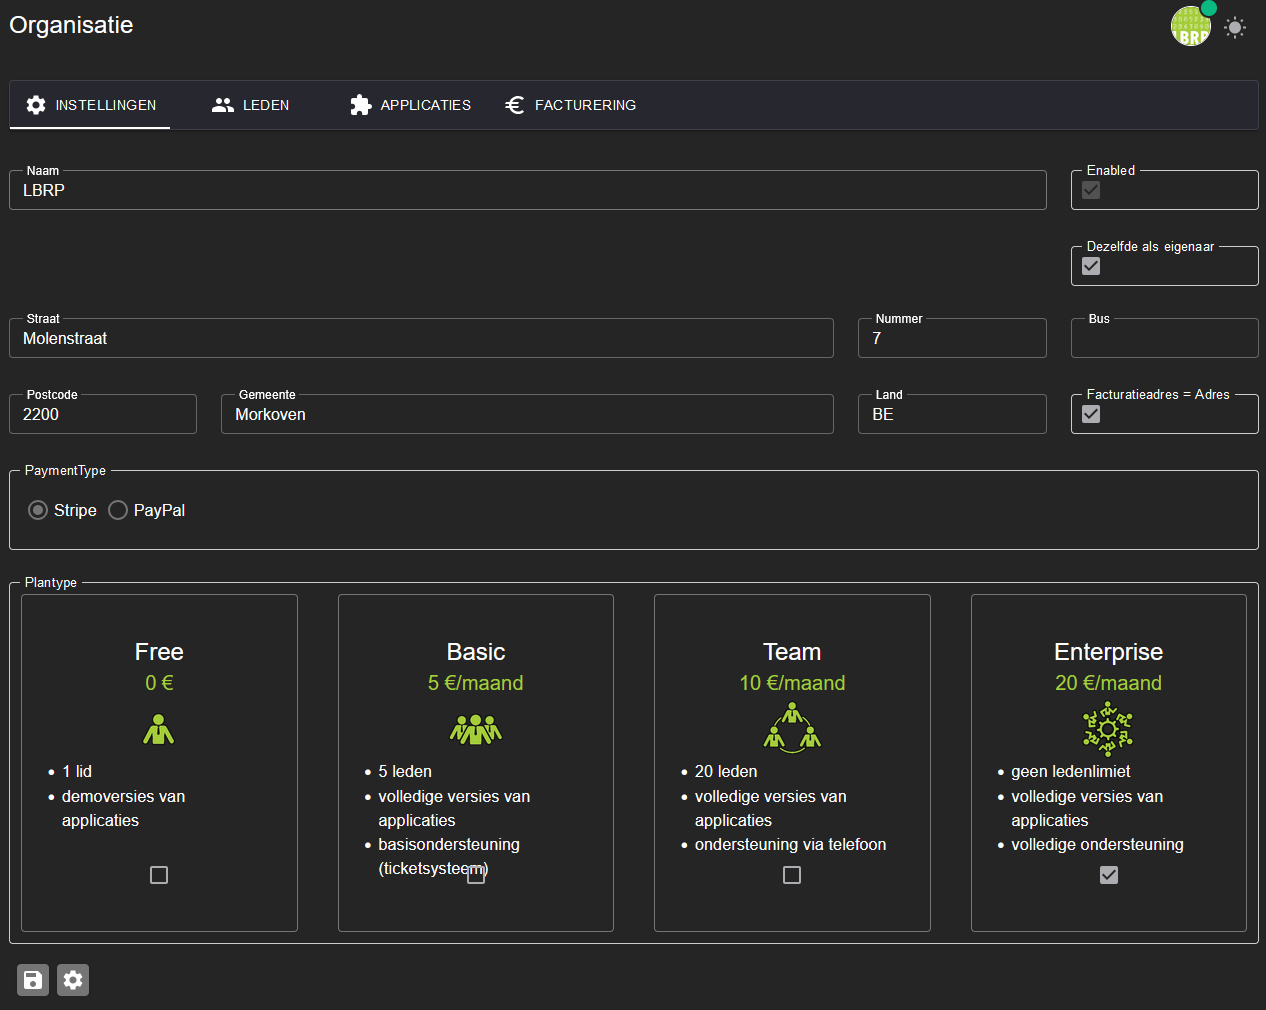
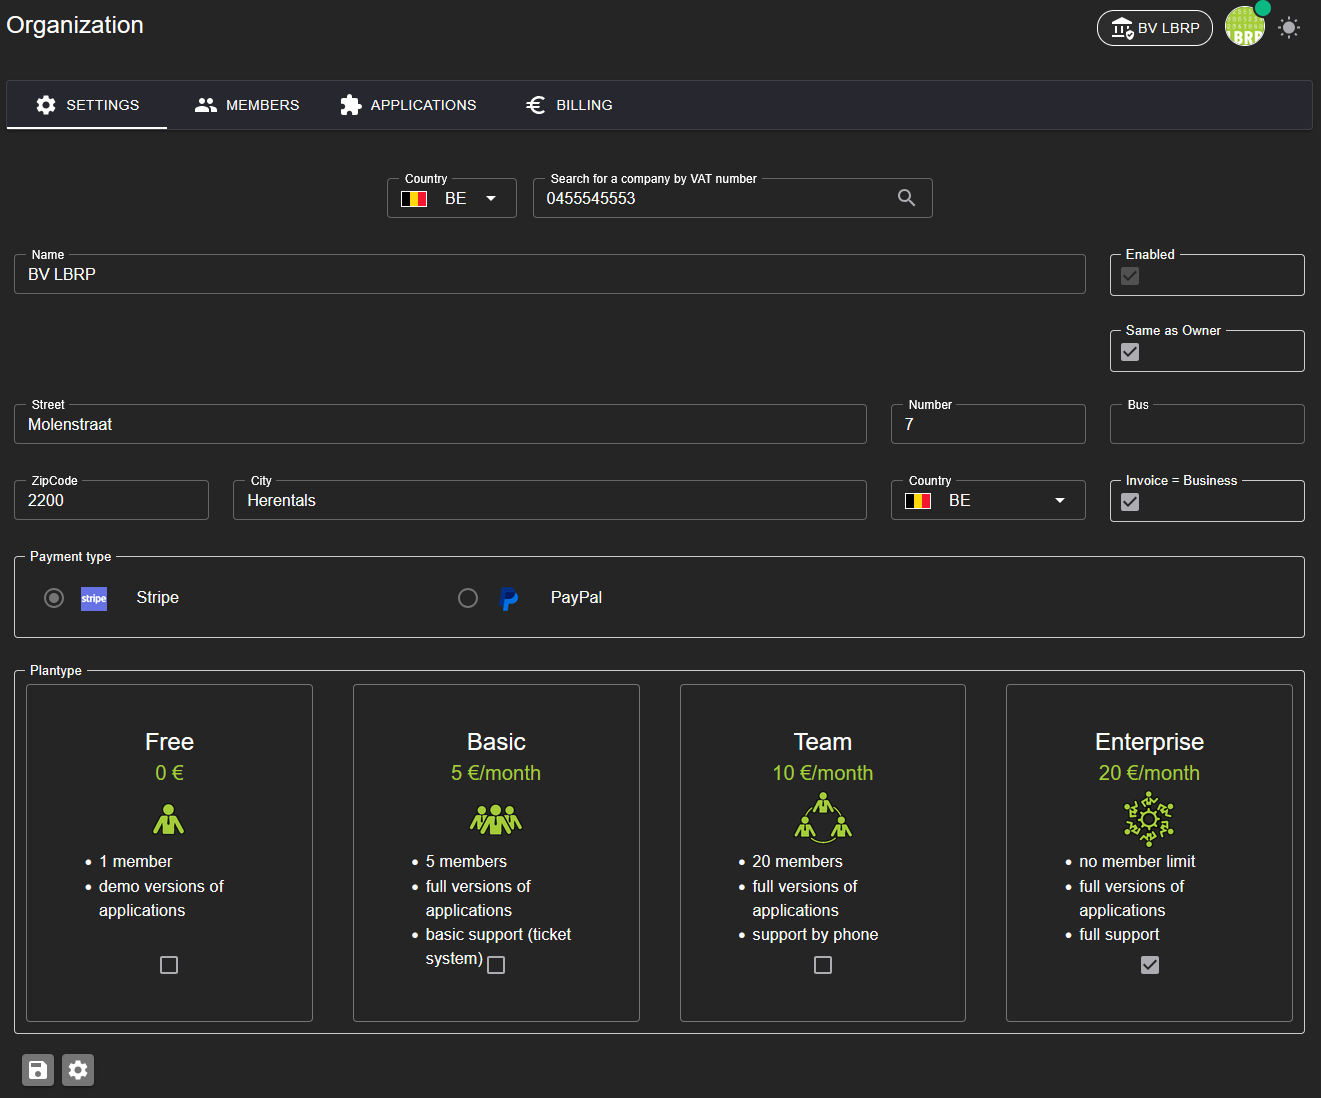
Added Books

diff --git a/docs/NL/Cloud/UserManuals/Identity/Members/README.md b/docs/NL/Cloud/UserManuals/Identity/Members/README.md
@@ -1,55 +1,55 @@
 # LBRP Cloud - Identity - Leden
 
-## 1. Ledenbeheer  
+## 1. Ledenbeheer
 
-Op het tabblad **Leden** van een **Organisatie** kun je het volgende doen:  
+Op het tabblad **Leden** van een **Organisatie** kun je het volgende doen:
 
-1. **Overzicht van Leden**  
-   - Bekijk een lijst met alle huidige leden van je organisatie, inclusief hun rol en status.  
+1. **Overzicht van leden**
+   - Bekijk een lijst met alle huidige leden van de organisatie, inclusief hun rol en status.
 
-2. **Leden Uitnodigen**  
-   - Nodig nieuwe leden uit door hun **e-mailadres** in te vullen.  
-   - De genodigde ontvangt een e-mail met een uitnodigingslink.  
-   - Indien de genodigde nog geen gebruiker is, kan hij/zij tijdens het accepteren van de uitnodiging een **wachtwoord instellen**.  
+2. **Leden uitnodigen**
+   - Nodig nieuwe leden uit door hun **e-mailadres** en de gewenste rol in te vullen.
+   - De genodigde ontvangt een e-mail met een uitnodigingslink.
+   - Indien de genodigde nog geen gebruiker is, kan deze tijdens het accepteren van de uitnodiging een **wachtwoord instellen**.
 
-3. **Bevestigen door Administrator**  
-   - Nadat de uitnodiging is geaccepteerd, krijgt de genodigde de status **In afwachting**.  
-   - Een **Administrator** moet het lid handmatig bevestigen om toegang te verlenen tot de organisatie.  
+3. **Bevestigen door administrator**
+   - Nadat de uitnodiging is geaccepteerd, krijgt de genodigde de status **In afwachting**.
+   - Een **administrator** moet het lid handmatig bevestigen om toegang te verlenen tot de organisatie.
 
-Dit proces biedt controle en veiligheid bij het beheren van leden in de organisatie.
+Dit proces biedt controle en veiligheid bij het beheren van leden binnen de organisatie.
 
 <img src="./members.png" alt="members.png" style="width:600px;"/>
 
-## 2. Rollen en Rechten  
+## 2. Rollen en rechten
 
-Binnen een organisatie kan elk lid een specifieke rol toegewezen krijgen. Elke rol bepaalt welke acties een gebruiker mag uitvoeren:  
+Binnen een organisatie kan elk lid een specifieke rol toegewezen krijgen. Elke rol bepaalt welke acties een gebruiker mag uitvoeren:
 
-1. **Administrator**  
-   - Volledige toegang, inclusief gebruikersbeheer en het toewijzen van rollen.  
+1. **Administrator**
+   - Volledige toegang, inclusief gebruikersbeheer en het toewijzen van rollen.
 
-2. **Manager**  
-   - Toegang tot bepaalde functionaliteiten, afhankelijk van de toegewezen verantwoordelijkheden binnen de organisatie.  
+2. **Manager**
+   - Toegang tot bepaalde functionaliteiten, afhankelijk van de toegewezen verantwoordelijkheden binnen de organisatie.
 
-3. **Editor**  
-   - Kan gegevens toevoegen, aanpassen en verwijderen binnen de organisatie.  
+3. **Editor**
+   - Kan gegevens toevoegen, aanpassen en verwijderen binnen de organisatie.
 
-4. **Viewer**  
-   - Alleen-lezen toegang; kan gegevens bekijken maar niets wijzigen.  
+4. **Viewer**
+   - Alleen-lezen toegang; kan gegevens bekijken maar niets wijzigen.
 
-5. **Customer**  
-   - Beperkte toegang; kan enkel zijn/haar eigen gegevens inzien en beheren.  
+5. **Customer**
+   - Beperkte toegang; kan enkel eigen gegevens inzien en beheren.
 
 Met deze rollenstructuur kan een organisatie eenvoudig bepalen wie welke verantwoordelijkheden heeft.
 
-## 3. Toegang tot Applicaties  
+## 3. Toegang tot applicaties
 
-Standaard heeft elk lid binnen een organisatie toegang tot alle geactiveerde applicaties. Indien nodig kan de toegang tot specifieke applicaties per lid worden aangepast:  
+Standaard heeft elk lid binnen een organisatie toegang tot alle geactiveerde applicaties. Indien nodig kan de toegang tot specifieke applicaties per lid worden aangepast:
 
-1. **Standaard Toegang**  
-   - Elk lid krijgt automatisch toegang tot alle beschikbare applicaties in de organisatie.  
+1. **Standaard toegang**
+   - Elk lid krijgt automatisch toegang tot alle beschikbare applicaties in de organisatie.
 
-2. **Toegang Beheren**  
-   - Als Administrator kun je per gebruiker de toegang tot een specifieke applicatie intrekken, afhankelijk van de behoeften en verantwoordelijkheden van het lid.  
+2. **Toegang beheren**
+   - Als administrator kun je per gebruiker de toegang tot een specifieke applicatie intrekken, afhankelijk van de behoeften en verantwoordelijkheden van het lid.
 
 Dit biedt flexibiliteit in het beheren van rechten en zorgt ervoor dat leden alleen toegang hebben tot relevante applicaties.
 

diff --git a/docs/NL/Cloud/UserManuals/Identity/Organizations/README.md b/docs/NL/Cloud/UserManuals/Identity/Organizations/README.md
@@ -1,36 +1,45 @@
 # LBRP Cloud - Identity - Organisaties
 
-## 1. Organisatie en Gebruikersbeheer  
+## 1. Organisatie en Gebruikersbeheer
 
 Ons systeem werkt op basis van organisaties. Wanneer een gebruiker een account aanmaakt, wordt automatisch een eigen organisatie aangemaakt waarvan hij/zij lid (member) is. Binnen deze organisatie kunnen diverse acties worden uitgevoerd:
 
-1. **Applicaties toevoegen**
+1. [**Applicaties toevoegen**](../Applications/README.md)
    - Als eigenaar van een organisatie kun je applicaties toevoegen. Deze applicaties zijn beschikbaar binnen jouw organisatie en kunnen individueel worden geactiveerd.
 
-2. **Gebruikers uitnodigen**
+2. [**Gebruikers uitnodigen**](../Members/README.md)
    - Je kunt andere gebruikers uitnodigen om lid te worden van jouw organisatie. Uitgenodigde gebruikers krijgen toegang tot de applicaties en gegevens binnen jouw organisatie, afgestemd op hun rol en rechten.
 
-Zo biedt het systeem volledige controle en flexibiliteit voor samenwerking binnen jouw organisatie.
+3. [**Facturatie**](../Invoices/README.md)
+   - U vindt een overzicht van de facturen over het gebruik van de verschillende applicaties in uw organisatie.
 
-<img src="./organizations.png" alt="organizations.png" style="width:600px;"/>
+Zo biedt het systeem volledige controle en flexibiliteit voor samenwerking binnen de organisatie.
 
-## 2. Organisatie Instellingen  
+<img src="./organizations.png" alt="organizations.png" style="width:200px;"/>
 
-In de details van een organisatie kun je de volgende instellingen beheren:
+## 2. Organisatie-instellingen
 
-1. **Plan Selecteren**  
-   - Kies een passend abonnement voor je organisatie:
+In de [details](https://abfweb.corpgroup.site/owner/organization) van een organisatie kun je de volgende instellingen beheren:
+
+1. **Plan selecteren**
+   - Kies een passend abonnement voor de organisatie:
      - **Free**: Basisfunctionaliteiten gratis.
      - **Basic**: Uitgebreide opties voor individuele gebruikers.
      - **Team**: Ontworpen voor teams met gedeelde toegang.
      - **Enterprise**: Voor grote organisaties met geavanceerde behoeften.
 
-2. **Betalingswijze Instellen**  
+2. **Betalingswijze instellen**
    - Kies tussen **Stripe** of **PayPal** voor veilige betalingen.
 
-3. **Organisatiegegevens Invullen**  
-   - Voeg belangrijke gegevens van je organisatie toe, zoals het **adres**, of andere relevante details.
+3. **Organisatiegegevens invullen**
+   - Voeg belangrijke gegevens van de organisatie toe, zoals het **adres** of andere relevante details.
+   - De eenvoudigste manier om alle gegevens automatisch op te halen is het invullen van het **btw-nummer** in het daarvoor voorziene tekstveld.
 
-Hiermee zorg je ervoor dat je organisatie volledig en correct is ingesteld voor gebruik.
+      <img src="./organization_vat.png" alt="organization_vat.png" style="width:600px;"/>
+
+   - Het selectieveld "Same as Owner" zorgt ervoor dat het e-mailverkeer van de organisatie over hetzelfde adres gaat als het e-mailadres waarmee u zich hebt aangemeld. U kunt dit wijzigen door dit vinkje uit te zetten.
+   - Het selectieveld "Invoice - Business" vertelt het systeem dat uw facturatieadres hetzelfde is als uw zeteladres. U kunt dit laten afwijken door dit vinkje uit te zetten en de nodige gegevens in te vullen.
+
+Hiermee zorgt u ervoor dat de organisatie volledig en correct is ingesteld voor gebruik.
 
 <img src="./organization.png" alt="organization.png" style="width:800px;"/>

diff --git a/docs/NL/Cloud/UserManuals/Identity/Menu/README.md b/docs/NL/Cloud/UserManuals/Identity/Menu/README.md
@@ -1,69 +1,66 @@
 # LBRP Cloud - Identity - Menu
 
-## 1. Hoofdmenu  
+## 1. Hoofdmenu
 
-Het hoofdmenu biedt snelle toegang tot de belangrijkste onderdelen van het systeem:  
+Het hoofdmenu biedt snelle toegang tot de belangrijkste onderdelen van het systeem:
 
 <img src="./menu.png" alt="menu.png" style="width:200px;"/>
 
 ---
 
-### 1.1 Ingelogde Gebruiker
+### 1.1 Ingelogde gebruiker
 
-Bekijk de gegevens van de huidige gebruiker.
+Bekijk de gegevens van de huidige ingelogde gebruiker.
 
 ### 1.2 Organisaties
 
-Link naar een overzicht van alle organisaties waar je lid van bent.  
+Link naar een overzicht van alle organisaties waarvan je lid bent.
 
-### 1.3 Actieve Organisatie
+### 1.3 Instellingen
 
-Beheer de instellingen van de momenteel geselecteerde organisatie.  
+In het **Instellingen**-menu kun je diverse configuraties beheren. Dit scherm is onderverdeeld in drie secties:
 
-#### 1.3.1 Instellingen  
-
-In het **Instellingen**-menu kun je diverse configuraties beheren, waaronder de e-mailinstellingen:  
+#### 1.3.1 Organisatie-instellingen
 
 <img src="./smtp.png" alt="smtp.png" style="width:400px;"/>
 
-- Stel de SMTP-server in om e-mails vanuit het systeem te kunnen verzenden.  
-
-- Te configureren instellingen:  
-
-   - SMTP-serveradres  
-
-   - Poortnummer  
-
-   - Gebruikersnaam  
-
-   - Wachtwoord  
-
+- Stel de SMTP-server in om e-mails vanuit het systeem te kunnen verzenden.
+- Te configureren instellingen:
+   - SMTP-serveradres
+   - Poortnummer
+   - Gebruikersnaam
+   - Wachtwoord
    - Beveiligingstype (bijv. SSL/TLS)
 
-Met deze instellingen zorg je ervoor dat eigen e-mails, correct worden verzonden.
+<img src="./api-keys.png" alt="api-keys.png" style="width:400px;"/>
 
-### 1.4 Accountinstellingen
+- Voeg hier 3rd-party API-keys toe om diensten te gebruiken zoals AI. Deze API-keys zijn toegankelijk voor alle leden van de organisatie.
+- Hier kun je ook een eigen LbrpCloud API-key genereren om te gebruiken in andere software.
+
+#### 1.3.2 Gebruikersinstellingen
 
 <img src="./avatar.png" alt="avatar.png" style="width:400px;"/>
 
-Beheer je persoonlijke account: 
+- Beheer je persoonlijke account:
+   - Gebruikersgegevens
+   - Avatar veranderen
+   - Wachtwoord resetten
+   - Taal instellen
 
-   - Gebruikersgegevens  
+- Voeg hier 3rd-party API-keys toe om diensten te gebruiken zoals AI. Deze API-keys zijn enkel toegankelijk voor de gebruiker in alle organisaties waarvan de gebruiker lid is.
 
-   - Avatar veranderen  
+#### 1.3.3 Lid-instellingen
 
-   - Wachtwoord resetten  
+<img src="./member.png" alt="member.png" style="width:400px;"/>
 
+- Support aanvragen
+- Voeg hier 3rd-party API-keys toe om diensten te gebruiken zoals AI. Deze API-keys zijn enkel toegankelijk voor de gebruiker van de huidige organisatie.
+- Foutmeldingen beheren
 
-### 1.5 Foutenlog
+### 1.4 Helpdesk
 
-Bekijk een overzicht van systeemfouten en logs.  
+Link naar onze helpdesk voor ondersteuning.
 
-### 1.6 Helpdesk
-   
-Link naar onze helpdesk voor ondersteuning.  
+### 1.5 Logout
 
-### 1.7 Logout
-   
-Veilig uitloggen uit het systeem.  
-
+Veilig uitloggen uit het systeem.

diff --git a/docs/NL/Cloud/UserManuals/Identity/Applications/README.md b/docs/NL/Cloud/UserManuals/Identity/Applications/README.md
@@ -1,16 +1,16 @@
 # LBRP Cloud - Identity - Applicaties
 
-## 1. Applicatiebeheer  
+## 1. Applicatiebeheer
 
-Op het tabblad **Applicaties** kun je eenvoudig het gebruik van applicaties binnen de organisatie beheren:  
+Op het tabblad **Applicaties** kun je eenvoudig het gebruik van applicaties binnen de organisatie beheren:
 
-1. **Applicaties In- en Uitschakelen**  
-   - Beheer welke applicaties geactiveerd zijn voor je organisatie.  
-   - Een geactiveerde applicatie wordt beschikbaar gemaakt voor de leden (afhankelijk van hun rechten).  
+1. **Applicaties in- en uitschakelen**
+   - Beheer welke applicaties geactiveerd zijn voor de organisatie.
+   - Geactiveerde applicaties worden beschikbaar voor de leden, afhankelijk van hun rechten.
 
-2. **Prijs per Plan**  
-   - Elke applicatie heeft een specifieke prijs, afhankelijk van het gekozen plan van de organisatie (**Free**, **Basic**, **Team**, of **Enterprise**).  
-   - Bij het inschakelen van een applicatie wordt de prijs aan je abonnement toegevoegd.  
+2. **Prijs per plan**
+   - Elke applicatie heeft een specifieke prijs, afhankelijk van het gekozen plan van de organisatie (**Free**, **Basic**, **Team** of **Enterprise**).
+   - Bij het inschakelen van een applicatie wordt de prijs aan het abonnement toegevoegd.
 
 Dit overzicht zorgt ervoor dat je als organisatie controle hebt over de beschikbare functionaliteit en bijbehorende kosten.
 

diff --git a/docs/NL/Cloud/UserManuals/Identity/Invoices/README.md b/docs/NL/Cloud/UserManuals/Identity/Invoices/README.md
@@ -1,16 +1,16 @@
 # LBRP Cloud - Identity - Facturen
 
-## 1. Facturen  
+## 1. Facturen
 
-Op het tabblad **Facturen** kun je je maandelijkse kostenoverzicht beheren:  
+Op het tabblad **Facturen** kun je je maandelijkse kostenoverzicht bekijken en beheren:
 
-1. **Maandelijkse Facturen**  
-   - Elke maand wordt automatisch een factuur gegenereerd op basis van het gebruik van geactiveerde applicaties.  
+1. **Maandelijkse facturen**
+   - Elke maand wordt automatisch een factuur gegenereerd op basis van het gebruik van de geactiveerde applicaties.
 
-2. **Details Bekijken**  
-   - Klik op een factuur om de specificaties te bekijken, waaronder het gebruik en de kosten per applicatie.  
+2. **Details bekijken**
+   - Klik op een factuur om de specificaties te bekijken, waaronder het gebruik en de kosten per applicatie.
 
-3. **Factuur Betalen**  
-   - Betaal de openstaande factuur gemakkelijk via de beschikbare betaalmethoden (**Stripe** of **PayPal**).  
+3. **Factuur betalen**
+   - Betaal de openstaande factuur eenvoudig via de beschikbare betaalmethoden (**Stripe** of **PayPal**).
 
 Dit tabblad biedt een duidelijk overzicht van je uitgaven en maakt het eenvoudig om betalingen bij te houden.

diff --git a/docs/NL/Cloud/UserManuals/Books/AI/README.md b/docs/NL/Cloud/UserManuals/Books/AI/README.md
@@ -1,0 +1,14 @@
+# LBRP Cloud - Books - AI
+
+Tijdens het lezen van een boek kun je vragen stellen over de inhoud aan een AI-model. Zo kun je snel extra uitleg of samenvattingen krijgen, of specifieke informatie opzoeken binnen het boek.
+
+<img src="./ai.png" alt="ai.png" style="width:600px;"/>
+
+Om de AI-modellen te kunnen gebruiken, heb je een API-key nodig. 
+
+- Voor het gebruik van OpenAI-modellen: maak een API-key aan via [OpenAI API Keys](https://platform.openai.com/api-keys).
+- Voor het gebruik van Anthropic-modellen: maak een API-key aan via [Anthropic Console](https://console.anthropic.com/settings/keys).
+
+Voer deze [API-key(s)](../../Identity/Menu/README.md) in bij de instellingen van organisatie, gebruiker of lid om de AI-functionaliteit te activeren.
+
+<img src="../../Identity/Menu/api-keys.png" alt="api-keys.png" style="width:600px;"/>

diff --git a/docs/NL/Cloud/UserManuals/Books/Manage/README.md b/docs/NL/Cloud/UserManuals/Books/Manage/README.md
@@ -1,0 +1,17 @@
+# LBRP Cloud - Books - Manage
+
+In het onderdeel "Manage" kunnen beheerders bestaande e-books beheren. 
+
+- Je ziet een overzicht van alle boeken, waar je de meta-gegevens (zoals titel, prijs, cover, enzovoort) kunt aanpassen.
+
+<img src="./books.png" alt="books.png" style="width:400px;"/>
+
+- Per boek kun je de beschikbare talen beheren.
+
+<img src="./languages.png" alt="languages.png" style="width:400px;"/>
+
+- Je kunt ook het boek openen om de inhoud te bekijken of te lezen.
+
+<img src="./read.png" alt="read.png" style="width:400px;"/>
+
+Gebruik deze pagina om boeken up-to-date te houden en beschikbaar te maken voor gebruikers.

diff --git a/docs/NL/Cloud/UserManuals/Books/README.md b/docs/NL/Cloud/UserManuals/Books/README.md
@@ -1,0 +1,12 @@
+# Books
+
+## 1. Inleiding
+
+Met de Books App kun je e-books aankopen, lezen en beheren. Gebruikers kunnen boeken in verschillende talen bekijken, aankopen en lezen. Tijdens het lezen is het mogelijk om vragen te stellen aan een AI-model over de inhoud van het boek. Beheerders kunnen nieuwe boeken toevoegen en bestaande boeken beheren.
+
+---
+
+- [Upload](Upload/README.md)
+- [Manage](Manage/README.md)
+- [View](View/README.md)
+- [AI](AI/README.md)

diff --git a/docs/NL/Cloud/UserManuals/Identity/Users/README.md b/docs/NL/Cloud/UserManuals/Identity/Users/README.md
@@ -2,7 +2,7 @@
 
 ## 1. Aanmelden
 
-Om toegang te krijgen tot de software, kun je eenvoudig inloggen via de **Login**-knop op de startpagina. 
+Om toegang te krijgen tot de applicatie, kun je inloggen via de **Login**-knop op de [startpagina](https://abfweb.corpgroup.site/identity/login).
 
 1. Klik op **Login**.  
 2. Voer je gebruikersnaam en wachtwoord in.  

diff --git a/docs/NL/Cloud/UserManuals/Books/View/README.md b/docs/NL/Cloud/UserManuals/Books/View/README.md
@@ -1,0 +1,7 @@
+# LBRP Cloud - Books - View
+
+In het onderdeel "View" kunnen gewone gebruikers een taal kiezen en vervolgens beschikbare e-books aankopen en lezen. 
+
+<img src="./view.png" alt="view.png" style="width:400px;"/>
+
+Gebruik deze pagina om eenvoudig door het aanbod te bladeren en je favoriete boeken te lezen.

diff --git a/docs/NL/Cloud/UserManuals/Books/Upload/README.md b/docs/NL/Cloud/UserManuals/Books/Upload/README.md
@@ -1,0 +1,5 @@
+# LBRP Cloud - Books - Upload
+
+Op deze pagina kunnen beheerders nieuwe e-books toevoegen aan de Books App. Na het uploaden worden de boeken klaargezet zodat ze later beheerd en beschikbaar gemaakt kunnen worden voor gebruikers.
+
+<img src="./upload.png" alt="upload.png" style="width:600px;"/>

diff --git a/docs/NL/Cloud/UserManuals/README.md b/docs/NL/Cloud/UserManuals/README.md
@@ -1,3 +1,4 @@
 # Handleidingen
 
 - [Identity](Identity/README.md)
+- [Books](Books/README.md)
